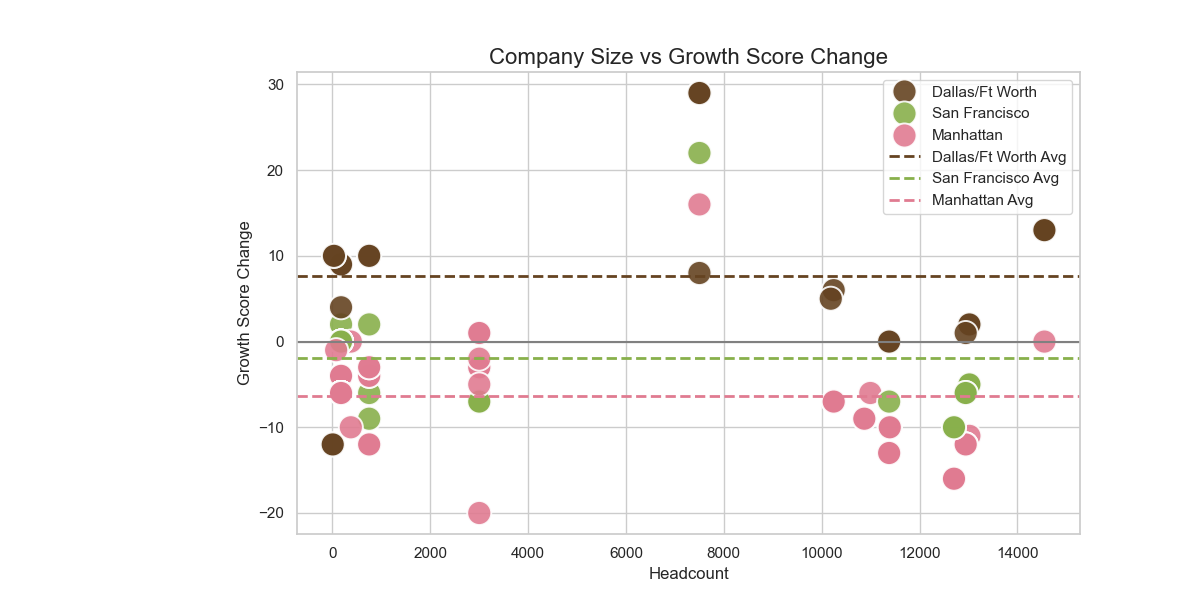
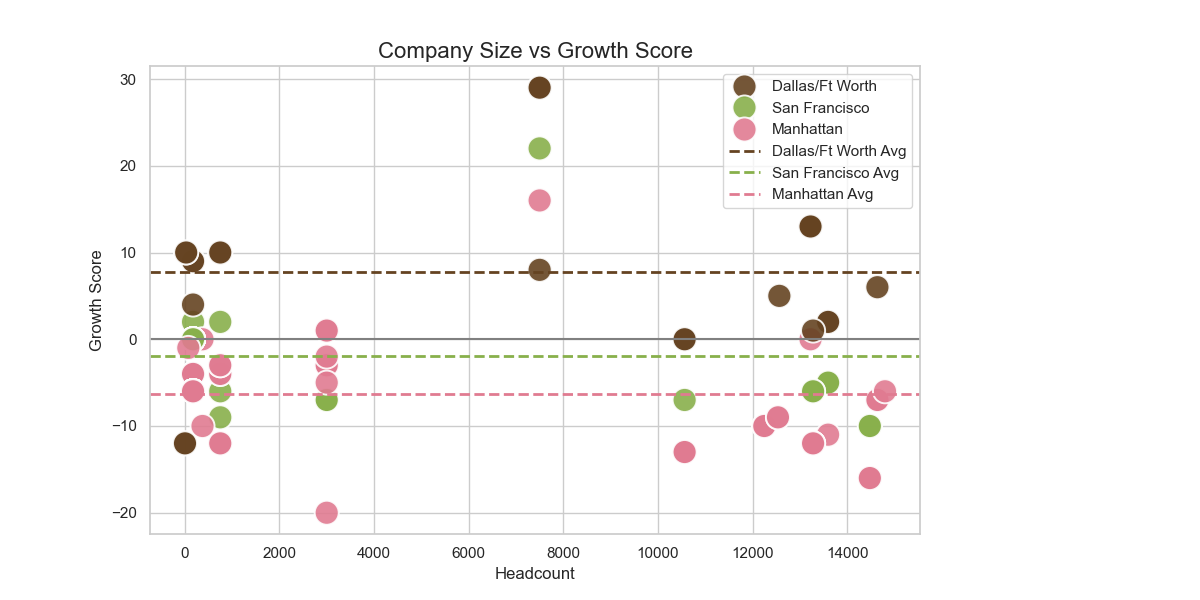
reformatted code

diff --git a/analysis/merging.py b/analysis/merging.py
@@ -93,30 +93,3 @@ df_merged = df_merged[df_merged['market'].isin(target_markets)]
 
 # (Optional) Capitalize market names again for prettier labels
 df_merged['market'] = df_merged['market'].str.title()
-
-# ✅ Now all plots will only show SF, NY, Dallas companies
-
-custom_palette = {
-   "Dallas/Ft Worth": "#654321",          # dark brown
-   "Manhattan": "#e07b91",        # soft pink-red
-   "San Francisco": "#88b04b"    # soft green
-}
-
-# -------------------------
-# PLOT 4: Sentiment vs Growth Score Change
-plt.figure(figsize=(12,6))
-sns.scatterplot(data=df_merged, x='Headcount', y='Growth_Change_Q', hue='market', s=300, palette=custom_palette, alpha=0.9)
-plt.title('Company Size vs Growth Score Change', fontsize=16)
-plt.xlabel('Headcount')
-plt.ylabel('Growth Score Change')
-plt.axhline(0, color='grey')
-plt.grid(True)
-
-# Add mean Growth_Change_Q lines for each market
-for market in df_merged['market'].unique():
-    mean_growth = df_merged[df_merged['market'] == market]['Growth_Change_Q'].mean()
-    color = custom_palette[market]  # Match the hue color
-    plt.axhline(mean_growth, color=color, linestyle='--', linewidth=2, label=f'{market} Avg')
-
-plt.legend()
-plt.show()

diff --git a/analysis/jacob_plotting.py b/analysis/jacob_plotting.py
@@ -1,0 +1,31 @@
+import pandas as pd
+import matplotlib.pyplot as plt
+import numpy as np
+import seaborn as sns
+
+df_merged = pd.read_csv('merged_data.csv')
+
+custom_palette = {
+   "Dallas/Ft Worth": "#654321",          # dark brown
+   "Manhattan": "#e07b91",        # soft pink-red
+   "San Francisco": "#88b04b"    # soft green
+}
+
+# -------------------------
+# PLOT 4: Sentiment vs Growth Score Change
+plt.figure(figsize=(12,6))
+sns.scatterplot(data=df_merged, x='Headcount', y='Growth_Change_Q', hue='market', s=300, palette=custom_palette, alpha=0.9)
+plt.title('Company Size vs Growth Score', fontsize=16)
+plt.xlabel('Headcount')
+plt.ylabel('Growth Score')
+plt.axhline(0, color='grey')
+plt.grid(True)
+
+# Add mean Growth_Change_Q lines for each market
+for market in df_merged['market'].unique():
+    mean_growth = df_merged[df_merged['market'] == market]['Growth_Change_Q'].mean()
+    color = custom_palette[market]  # Match the hue color
+    plt.axhline(mean_growth, color=color, linestyle='--', linewidth=2, label=f'{market} Avg')
+
+plt.legend()
+plt.show()
